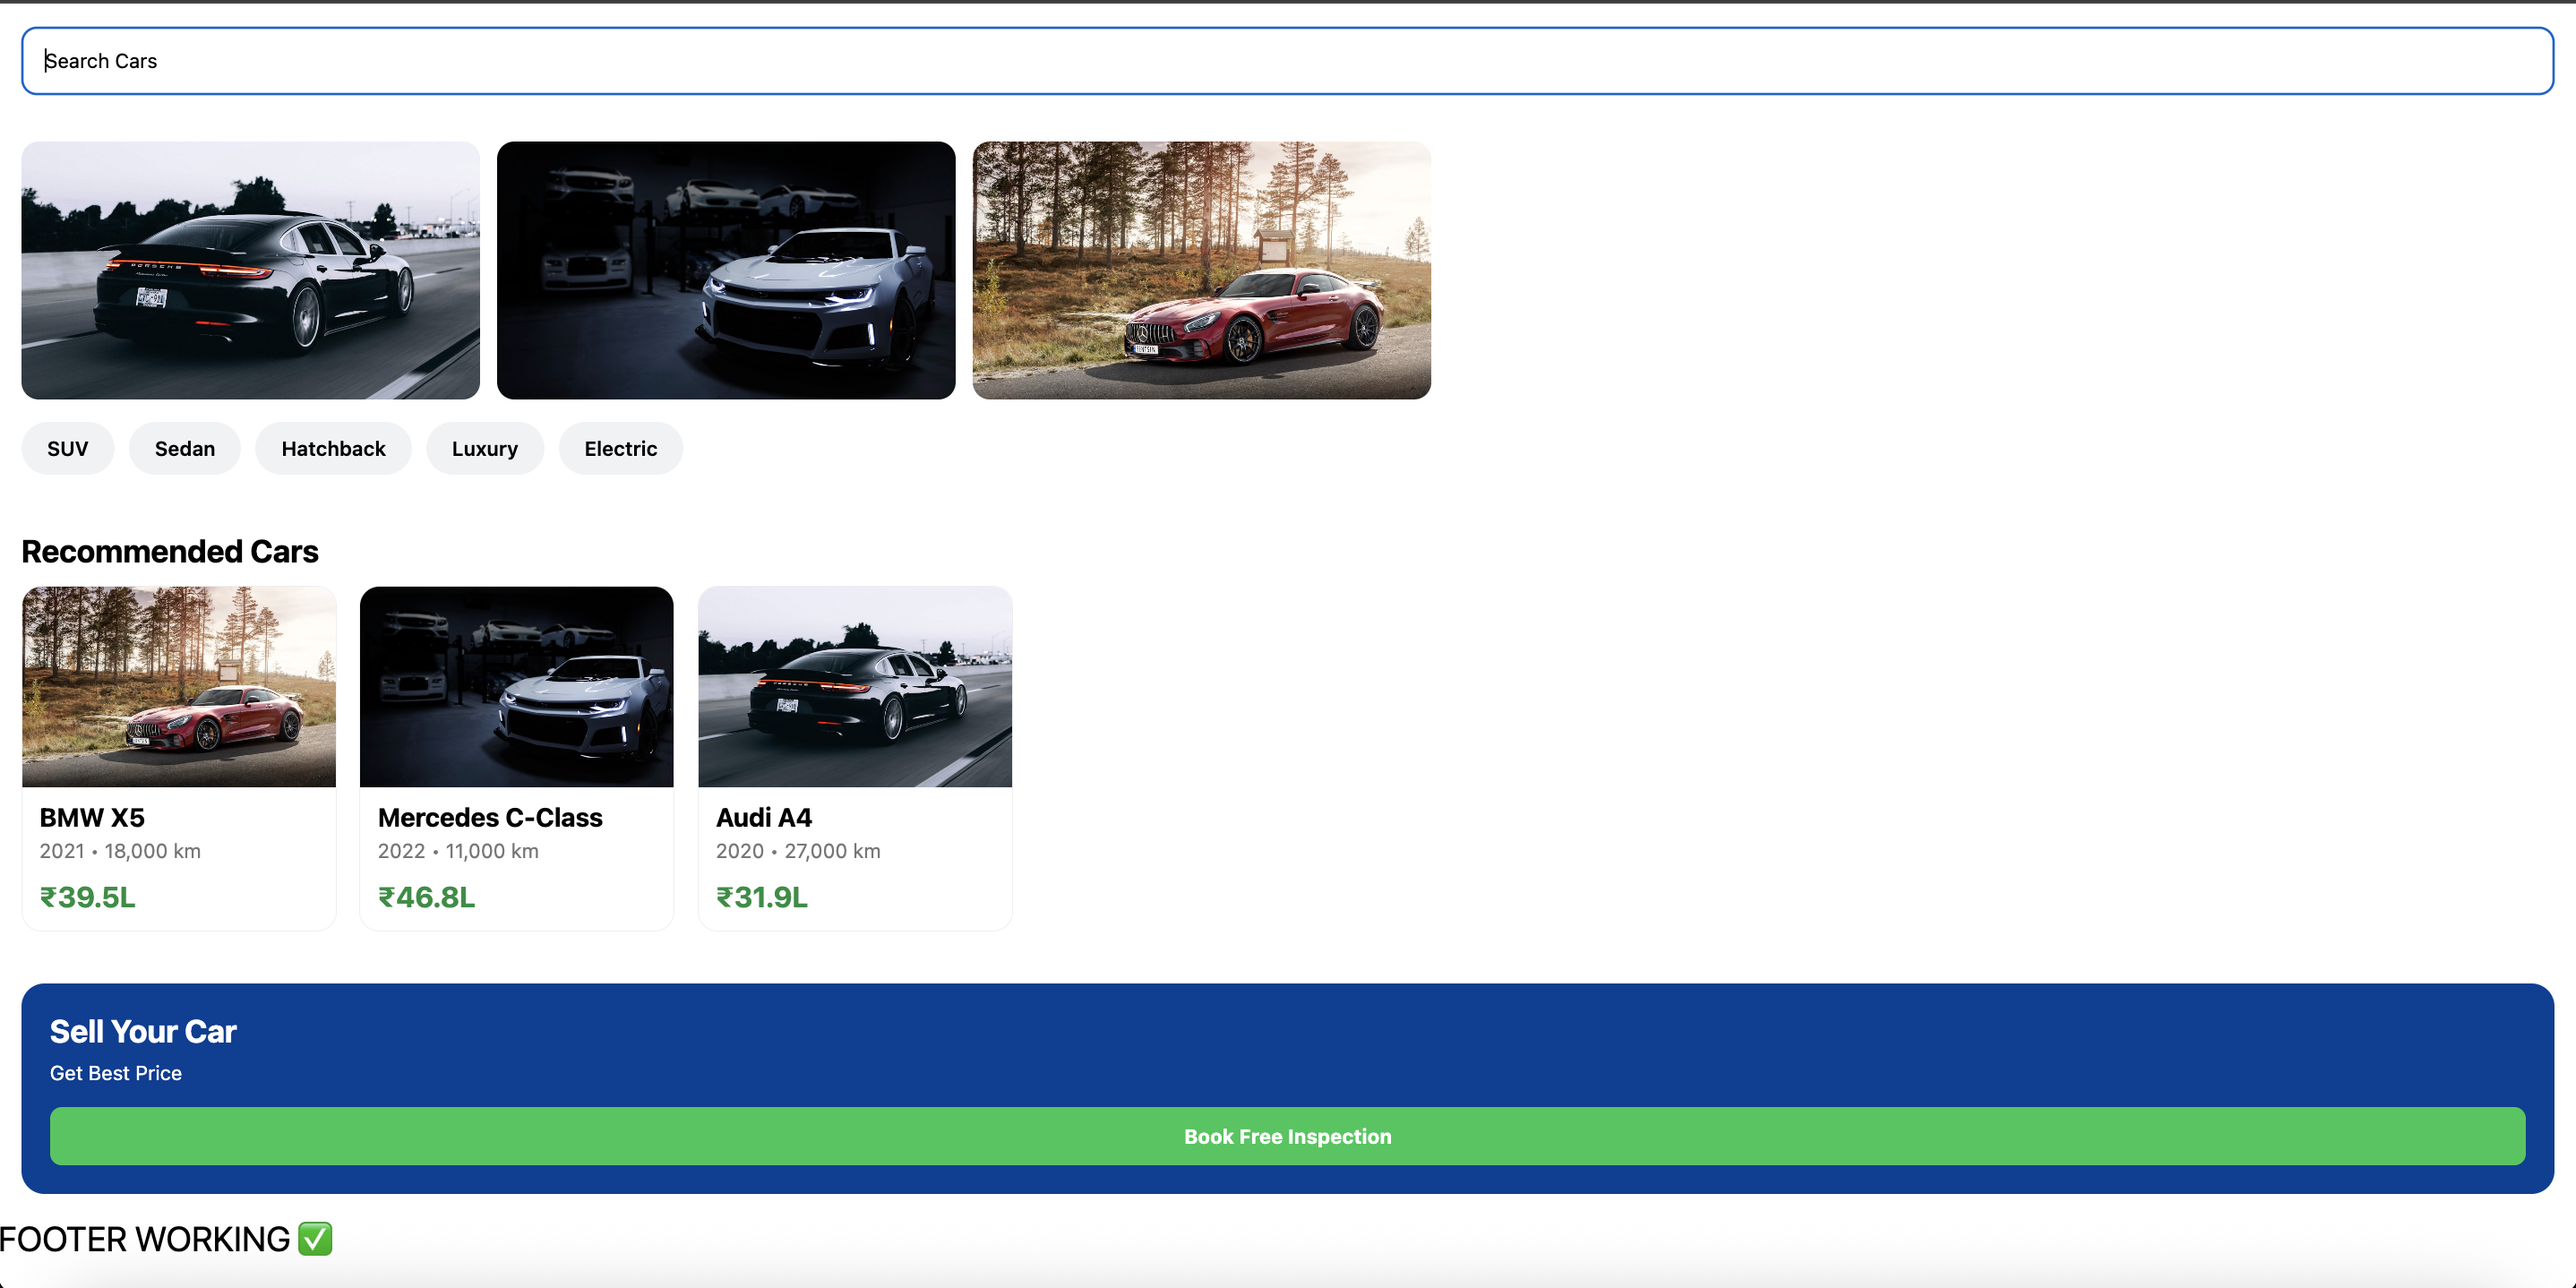
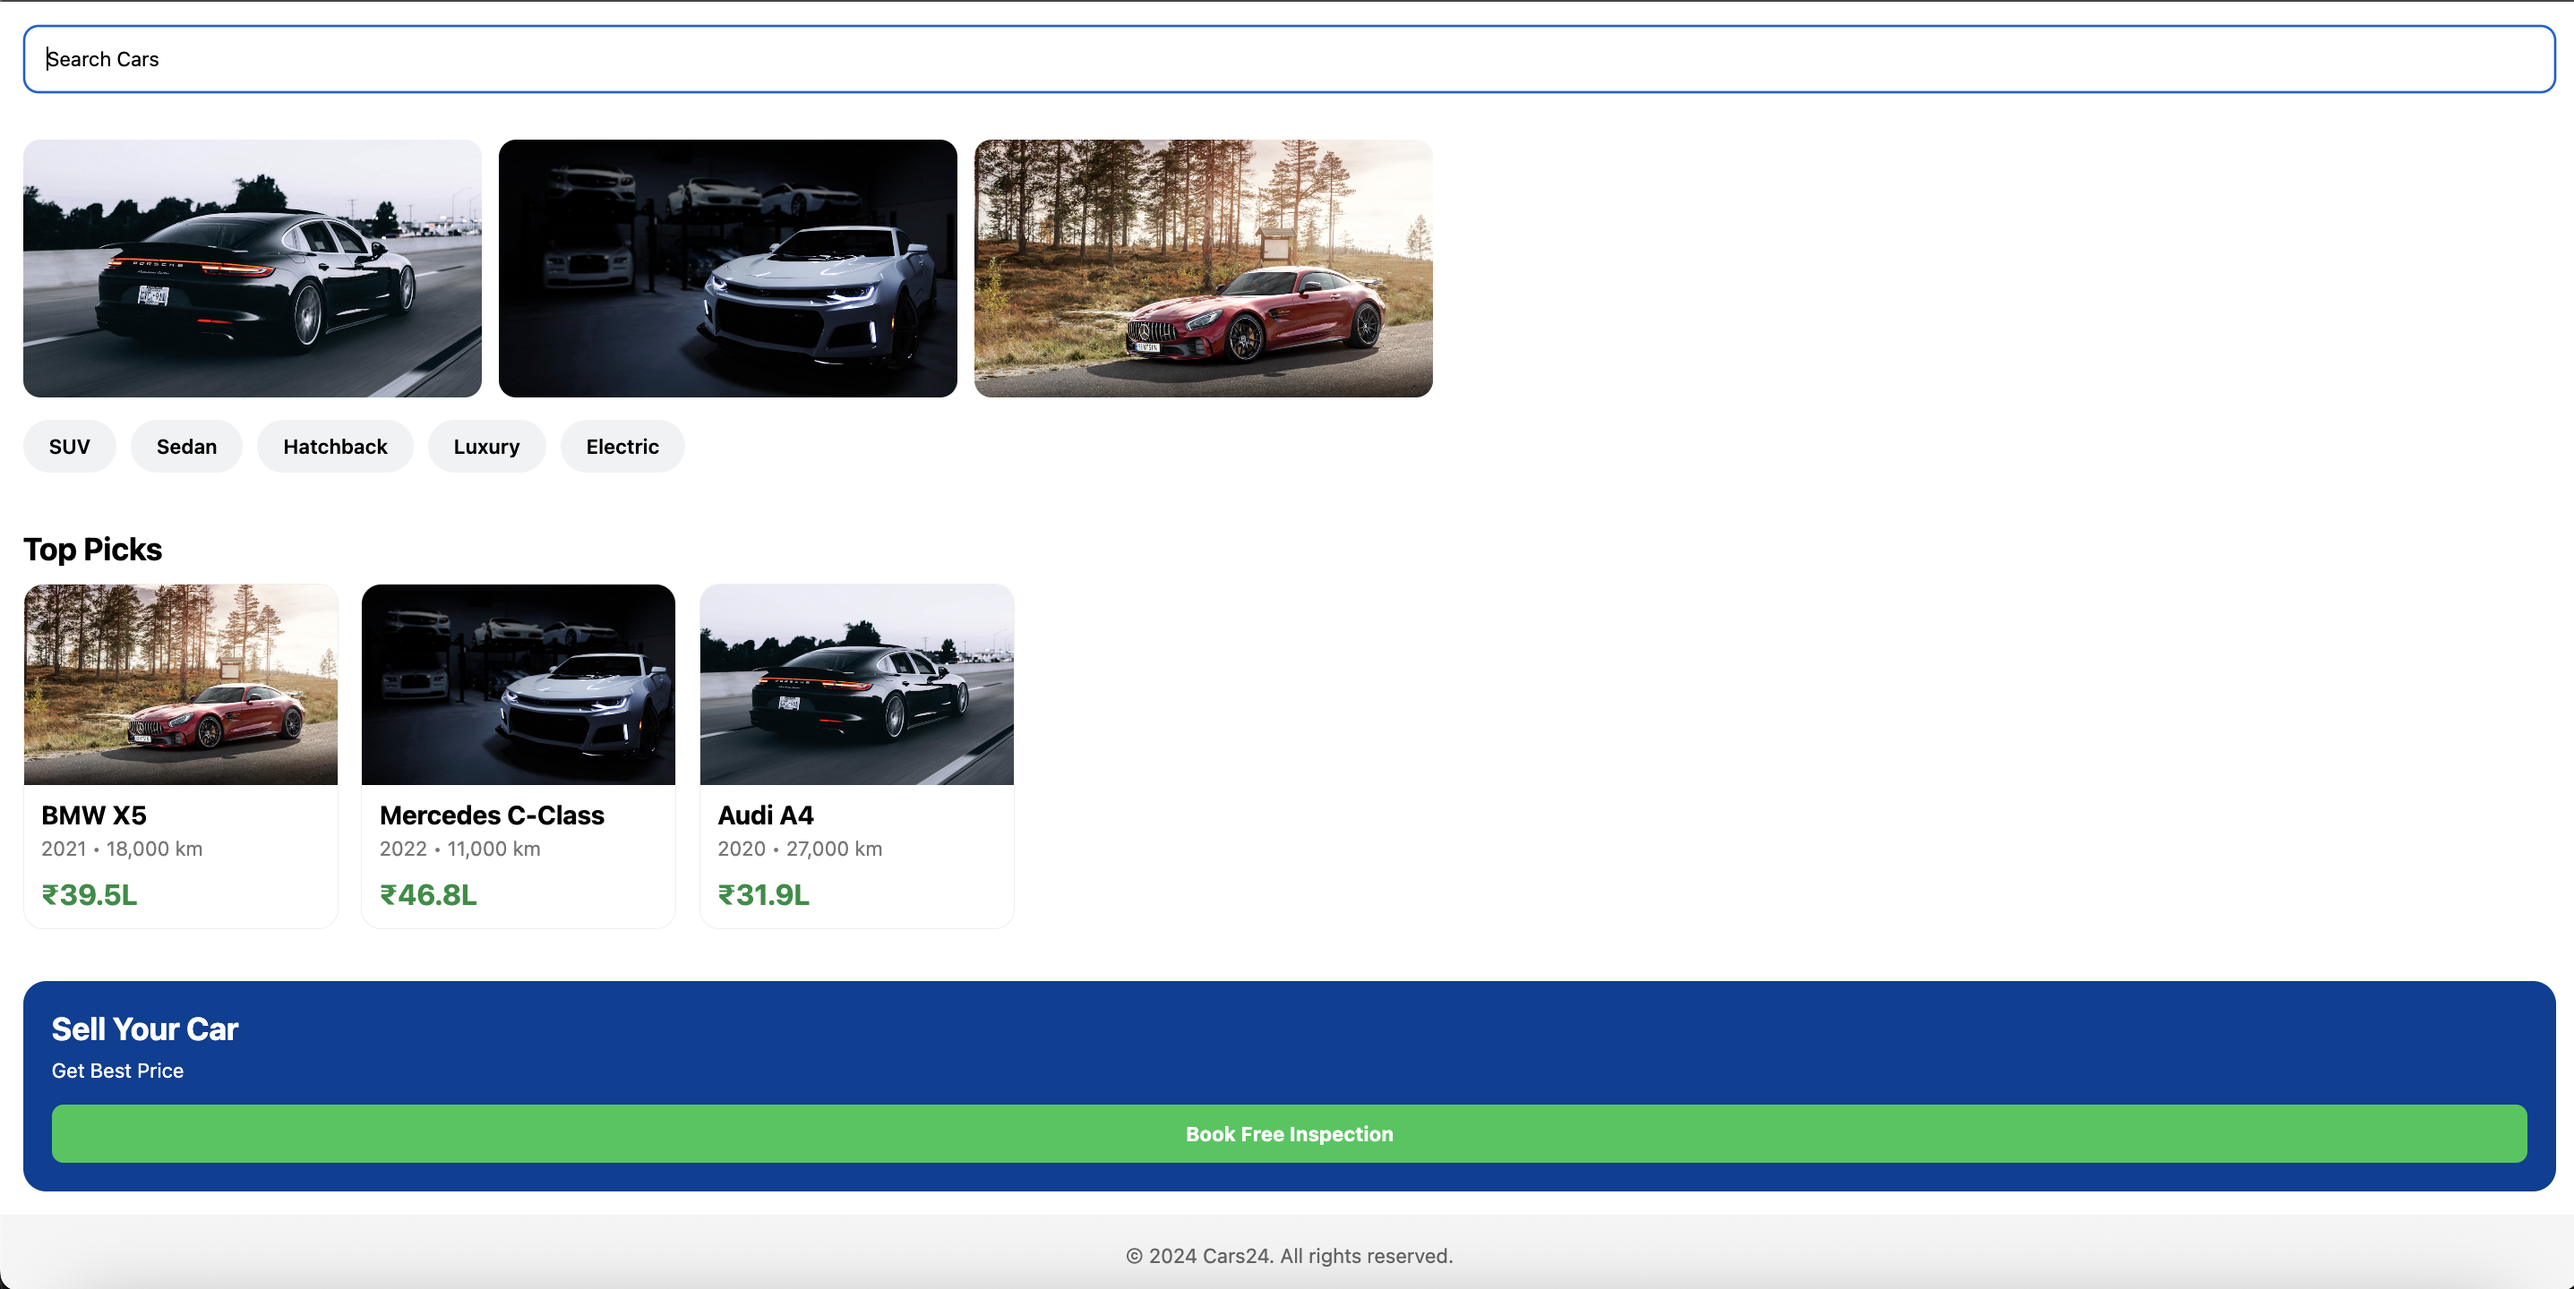
chore: remove debug code and finalize UI

diff --git a/src/core/registry/ComponentRegistry.ts b/src/core/registry/ComponentRegistry.ts
@@ -1,3 +1,5 @@
+import React from "react";
+
 import SearchBar from "../../components/SearchBar/SearchBar";
 import UnknownComponent from "../../components/UnknownComponent/UnknownComponent";
 import SectionTitle from "../../components/SectionTitle/SectionTitle";
@@ -10,7 +12,7 @@ import CarCard from "../../components/CarCard/CarCard";
 import { ComponentType } from "../../types/ComponentTypes";
 import Footer from "../../components/Footer/Footer";
 
-export const ComponentRegistry = {
+export const ComponentRegistry: Record<string, React.ComponentType<any>> = {
   [ComponentType.SEARCH_BAR]: SearchBar,
 
   [ComponentType.UNKNOWN]: UnknownComponent,

diff --git a/src/components/Footer/Footer.tsx b/src/components/Footer/Footer.tsx
@@ -1,8 +1,25 @@
 import React from "react";
-import { Text } from "react-native";
+import { StyleSheet, Text, View } from "react-native";
 
 const Footer = () => {
-  return <Text style={{ fontSize: 24 }}>FOOTER WORKING ✅</Text>;
+  return (
+    <View style={styles.container}>
+      <Text style={styles.text}>© 2024 Cars24. All rights reserved.</Text>
+    </View>
+  );
 };
+
+const styles = StyleSheet.create({
+  container: {
+    paddingHorizontal: 16,
+    paddingVertical: 20,
+    alignItems: "center",
+    backgroundColor: "#F5F5F5",
+  },
+  text: {
+    fontSize: 14,
+    color: "#666666",
+  },
+});
 
 export default Footer;

diff --git a/src/components/CategoryChips/CategoryChips.tsx b/src/components/CategoryChips/CategoryChips.tsx
@@ -2,10 +2,14 @@ import React from "react";
 import { ScrollView, Pressable, Text, StyleSheet } from "react-native";
 
 interface Props {
-  categories: string[];
+  categories?: string[];
+  action?: {
+    type: string;
+    payload?: Record<string, any>;
+  };
 }
 
-const CategoryChips = ({ categories }: Props) => {
+const CategoryChips = ({ categories = [] }: Props) => {
   return (
     <ScrollView
       horizontal

diff --git a/src/components/CarCard/CarCard.tsx b/src/components/CarCard/CarCard.tsx
@@ -2,10 +2,14 @@ import React from "react";
 import { View, Image, Text, StyleSheet } from "react-native";
 
 interface Props {
-  image: string;
-  name: string;
-  price: string;
-  year: string;
+  image?: string;
+  name?: string;
+  price?: string;
+  year?: string;
+  action?: {
+    type: string;
+    payload?: Record<string, any>;
+  };
 }
 
 const CarCard = ({ image, name, price, year }: Props) => {

diff --git a/src/components/BannerCarousel/BannerCarousel.tsx b/src/components/BannerCarousel/BannerCarousel.tsx
@@ -2,10 +2,14 @@ import React from "react";
 import { ScrollView, Image, StyleSheet } from "react-native";
 
 interface Props {
-  images: string[];
+  images?: string[];
+  action?: {
+    type: string;
+    payload?: Record<string, any>;
+  };
 }
 
-const BannerCarousel = ({ images }: Props) => {
+const BannerCarousel = ({ images = [] }: Props) => {
   return (
     <ScrollView
       horizontal

diff --git a/src/components/SearchBar/SearchBar.tsx b/src/components/SearchBar/SearchBar.tsx
@@ -2,7 +2,11 @@ import React from "react";
 import { View, TextInput, StyleSheet } from "react-native";
 
 interface SearchBarProps {
-  placeholder: string;
+  placeholder?: string;
+  action?: {
+    type: string;
+    payload?: Record<string, any>;
+  };
 }
 
 const SearchBar: React.FC<SearchBarProps> = ({ placeholder }) => {

diff --git a/src/components/HorizontalRail/HorizontalRail.tsx b/src/components/HorizontalRail/HorizontalRail.tsx
@@ -10,10 +10,14 @@ interface Car {
 }
 
 interface Props {
-  cars: Car[];
+  cars?: Car[];
+  action?: {
+    type: string;
+    payload?: Record<string, any>;
+  };
 }
 
-const HorizontalRail = ({ cars }: Props) => {
+const HorizontalRail = ({ cars = [] }: Props) => {
   return (
     <ScrollView
       horizontal

diff --git a/src/components/SectionTitle/SectionTitle.tsx b/src/components/SectionTitle/SectionTitle.tsx
@@ -2,7 +2,11 @@ import React from "react";
 import { Text, StyleSheet } from "react-native";
 
 interface Props {
-  title: string;
+  title?: string;
+  action?: {
+    type: string;
+    payload?: Record<string, any>;
+  };
 }
 
 const SectionTitle = ({ title }: Props) => {
